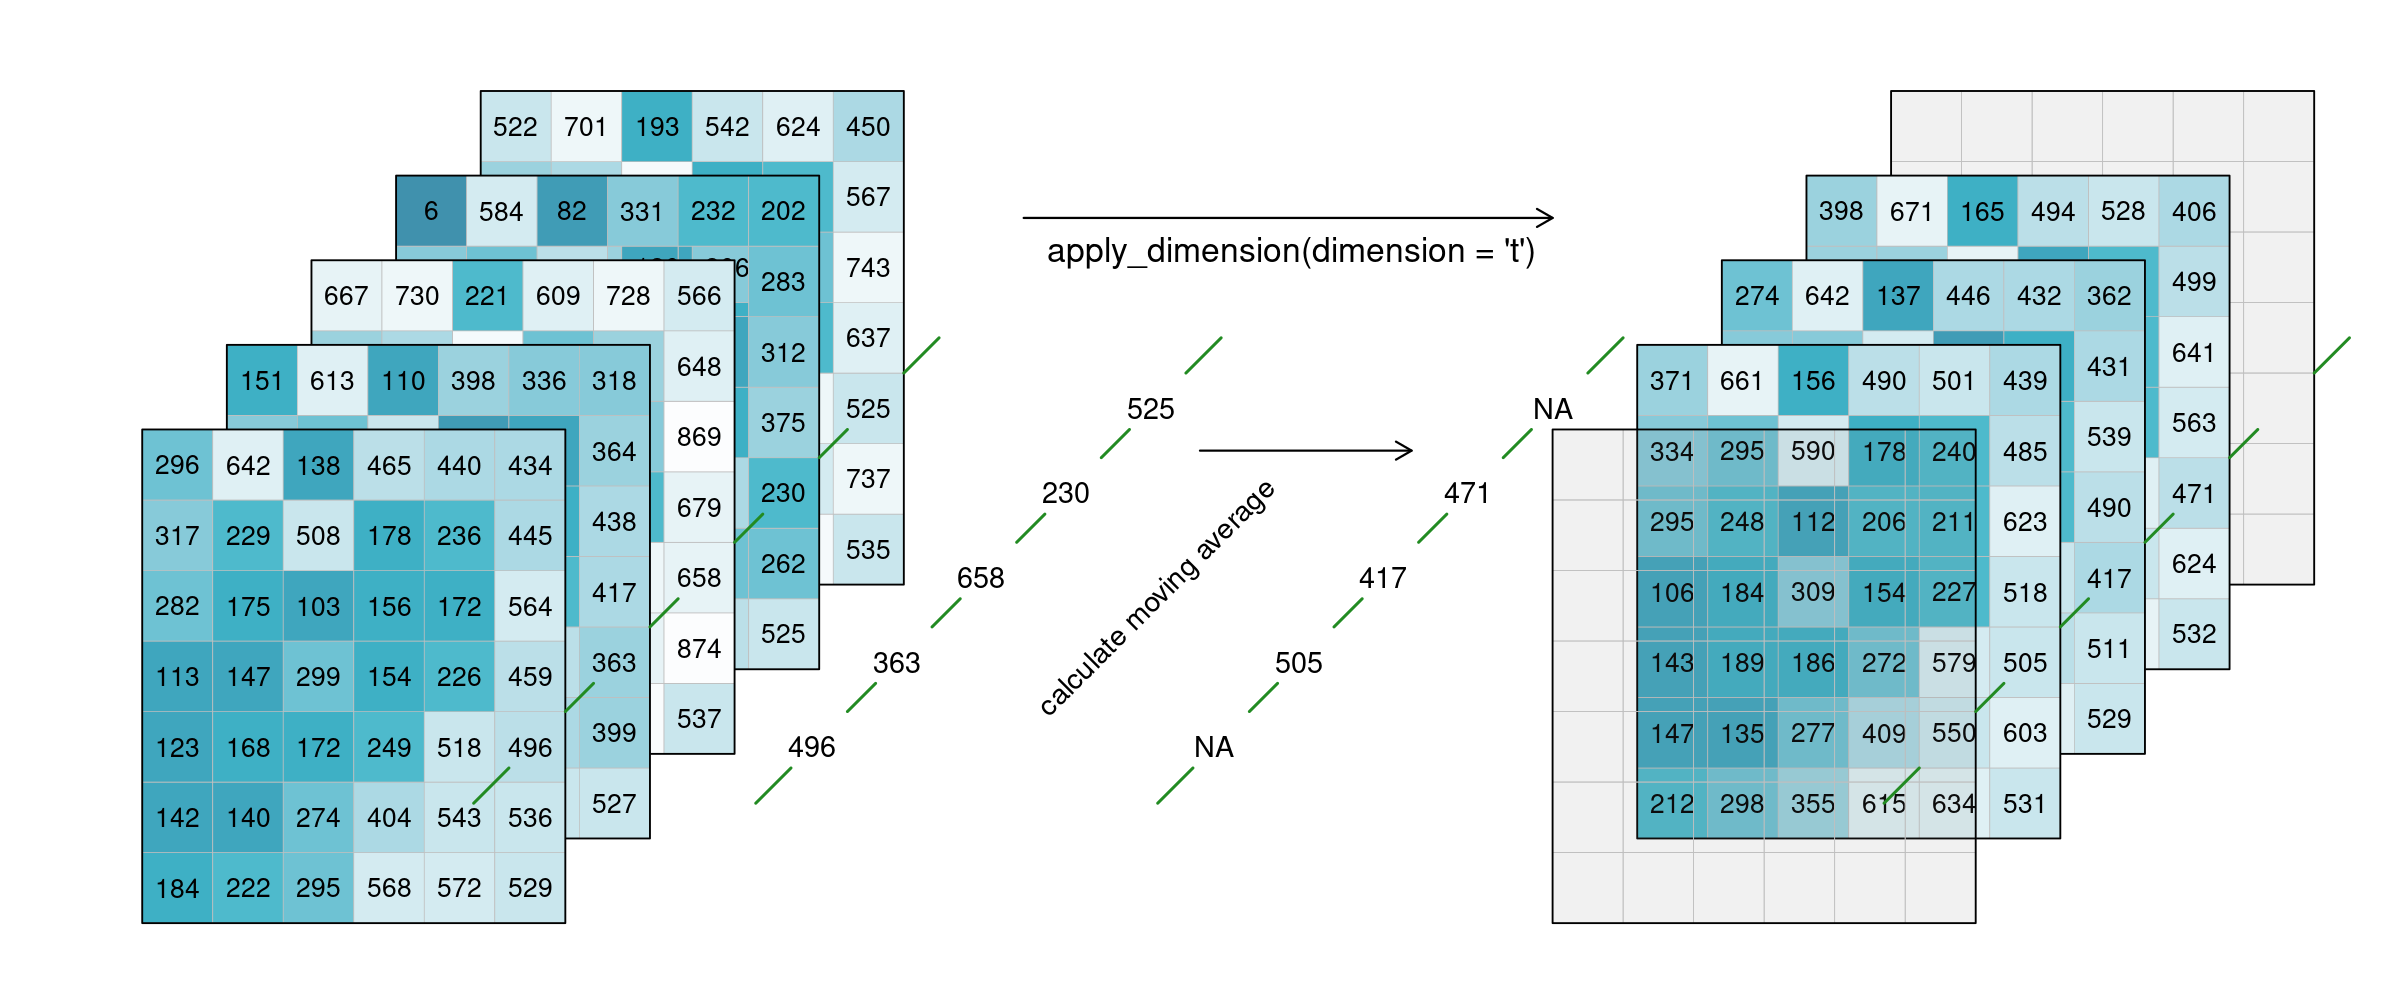
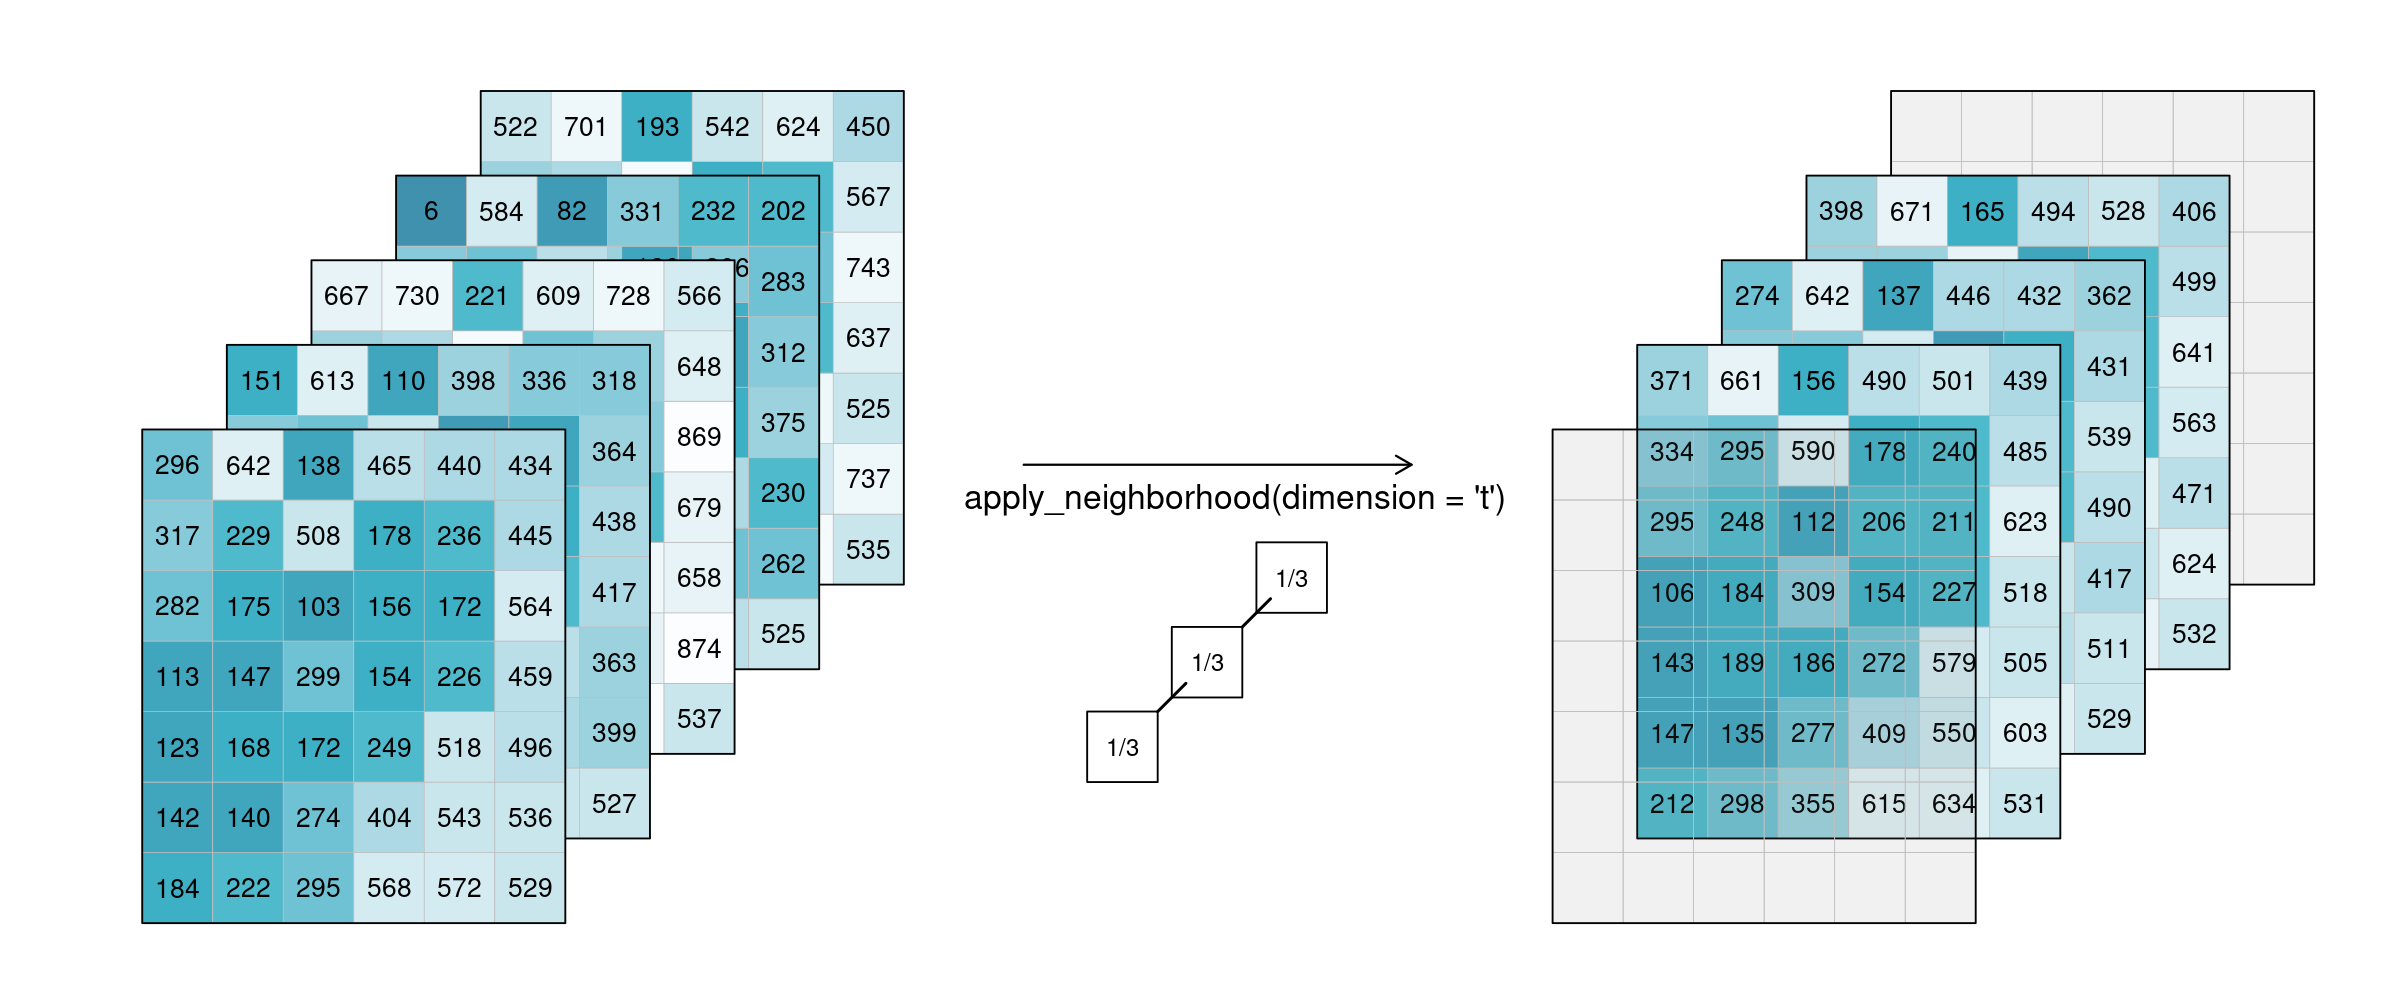
new apply neighborhood / dimension graphics

diff --git a/documentation/1.0/datacubes.md b/documentation/1.0/datacubes.md
@@ -71,14 +71,14 @@ The `apply*` functions (e.g. [`apply`](https://processes.openeo.org/#apply), [`a
 <span title="Applying the process 'cook' to [corn, potato, pig] returns [popcorn, fries, meat].">`apply([🌽, 🥔, 🐷], cook) => [🍿, 🍟, 🍖]`</span>
 :::
 
-For the case `n = 1` this is called an unary function and means that only the pixel itself is considered when calculating the new pixel value. A prominent example is the `absolute()` function, calculating the absolute value of the input pixel value. 
+For the case `n = 1` this is called a unary function and means that only the pixel itself is considered when calculating the new pixel value. A prominent example is the `absolute()` function, calculating the absolute value of the input pixel value. 
 
 <figure>
     <img src="./datacubes/dc_apply_unary.png" alt="Datacube apply unary">
     <figcaption>Applying an unary process. Only the pixel itself is considered for calculating the new pixel value.</figcaption>
 </figure>
 
-If `n` is larger than 1, the function is called n-ary. In practice, this means that the pixel neighbourhood is taken into account to calculate the new pixel value. Such neighbourhoods can be of temporal and/or spatial nature. A temporal function works on a time series at a certain pixel location (e.g. smoothing values over time), a spatial function works on a kernel that weights the surrounding pixels (e.g. smoothing values with nearby observations). Combinations of types to n-dimensional neighbourhoods are also possible.
+If `n` is larger than 1, the function is called n-ary. In practice, this means that the pixel neighbourhood is taken into account to calculate the new pixel value. Such neighbourhoods can be of spatial and/or temporal nature. A spatial function works on a kernel that weights the surrounding pixels (e.g. smoothing values with nearby observations), a temporal function works on a time series at a certain pixel location (e.g. smoothing values over time). Combinations of types to n-dimensional neighbourhoods are also possible.
 
 In the example below, an example weighted kernel (shown in the middle) is applied to the cube. To avoid edge effects (affecting pixels on the edge of the image with less neighbours), a padding has been added in the background.
 
@@ -87,14 +87,19 @@ In the example below, an example weighted kernel (shown in the middle) is applie
     <figcaption>Applying a spatial kernel. For calculating each new pixel value, the defined weighted neighbourhood is used.</figcaption>
 </figure>
 
-Of course this also works for temporal neighbourhoods (timeseries), considering neighbours before and after a pixel. To be able to show the effect, two timesteps were added in this example figure. A moving average of window size 3 is then applied. While this process is applied to all pixels in the cube, a specific pixel timeseries is highlighted (green line) and processed step-by-step. No padding was added which is why we observe edge effects (NA values are returned for t<sub>1</sub> and t<sub>5</sub>, because their temporal neighbourhood is missing input timesteps).
+Of course this also works for temporal neighbourhoods (timeseries), considering neighbours before and after a pixel. To be able to show the effect, two timesteps were added in this example figure. A moving average of window size 3 is then applied, meaning that for each pixel the average is calculated out of the previous, the next, and the timestep in question (t<sub>n-1</sub>, t<sub>n</sub> and t<sub>n+1</sub>). No padding was added which is why we observe edge effects (NA values are returned for t<sub>1</sub> and t<sub>5</sub>, because their temporal neighbourhood is missing input timesteps).
 
 <figure>
     <img src="./datacubes/dc_apply_ts.png" alt="Datacube apply temporal moving average">
     <figcaption>Applying a moving average (temporal smoothing) by averaging the direct temporal neighbourhoods of pixels. No padding is used, which leads to edge effects.</figcaption>
 </figure>
 
-Alternatively, a process can also be applied along a dimension of the datacube, meaning the input is no longer a neighbourhood of some sort but all pixels along that dimension. If a process is applied along the `time` dimension (e.g. a breakpoint detection), the complete pixel timeseries are the input. If a process is applied along the `spatial` dimensions (e.g. a `mean`), all pixels of an image are the input. The process is then applied to all pixels along that dimension and the dimension continues to exist. This is in contrast to [reduce](#reduce), as you will see below.
+Alternatively, a process can also be applied along a dimension of the datacube, meaning the input is no longer a neighbourhood of some sort but all pixels along that dimension (`n` equals the complete dimension). If a process is applied along the `time` dimension (e.g. a breakpoint detection), the complete pixel timeseries are the input. If a process is applied along the `spatial` dimensions (e.g. a `mean`), all pixels of an image are the input. The process is then applied to all pixels along that dimension and the dimension continues to exist. This is in contrast to [reduce](#reduce). In the image below, a `mean` is applied to the `time` dimension. An example pixel timeseries is highlighted by a green line and processed step-by-step.
+
+<figure>
+    <img src="./datacubes/dc_apply_dim_ts.png" alt="Datacube apply dimension time">
+    <figcaption>Appling a mean to the temporal dimension.</figcaption>
+</figure>
 
 ### Resample
 
